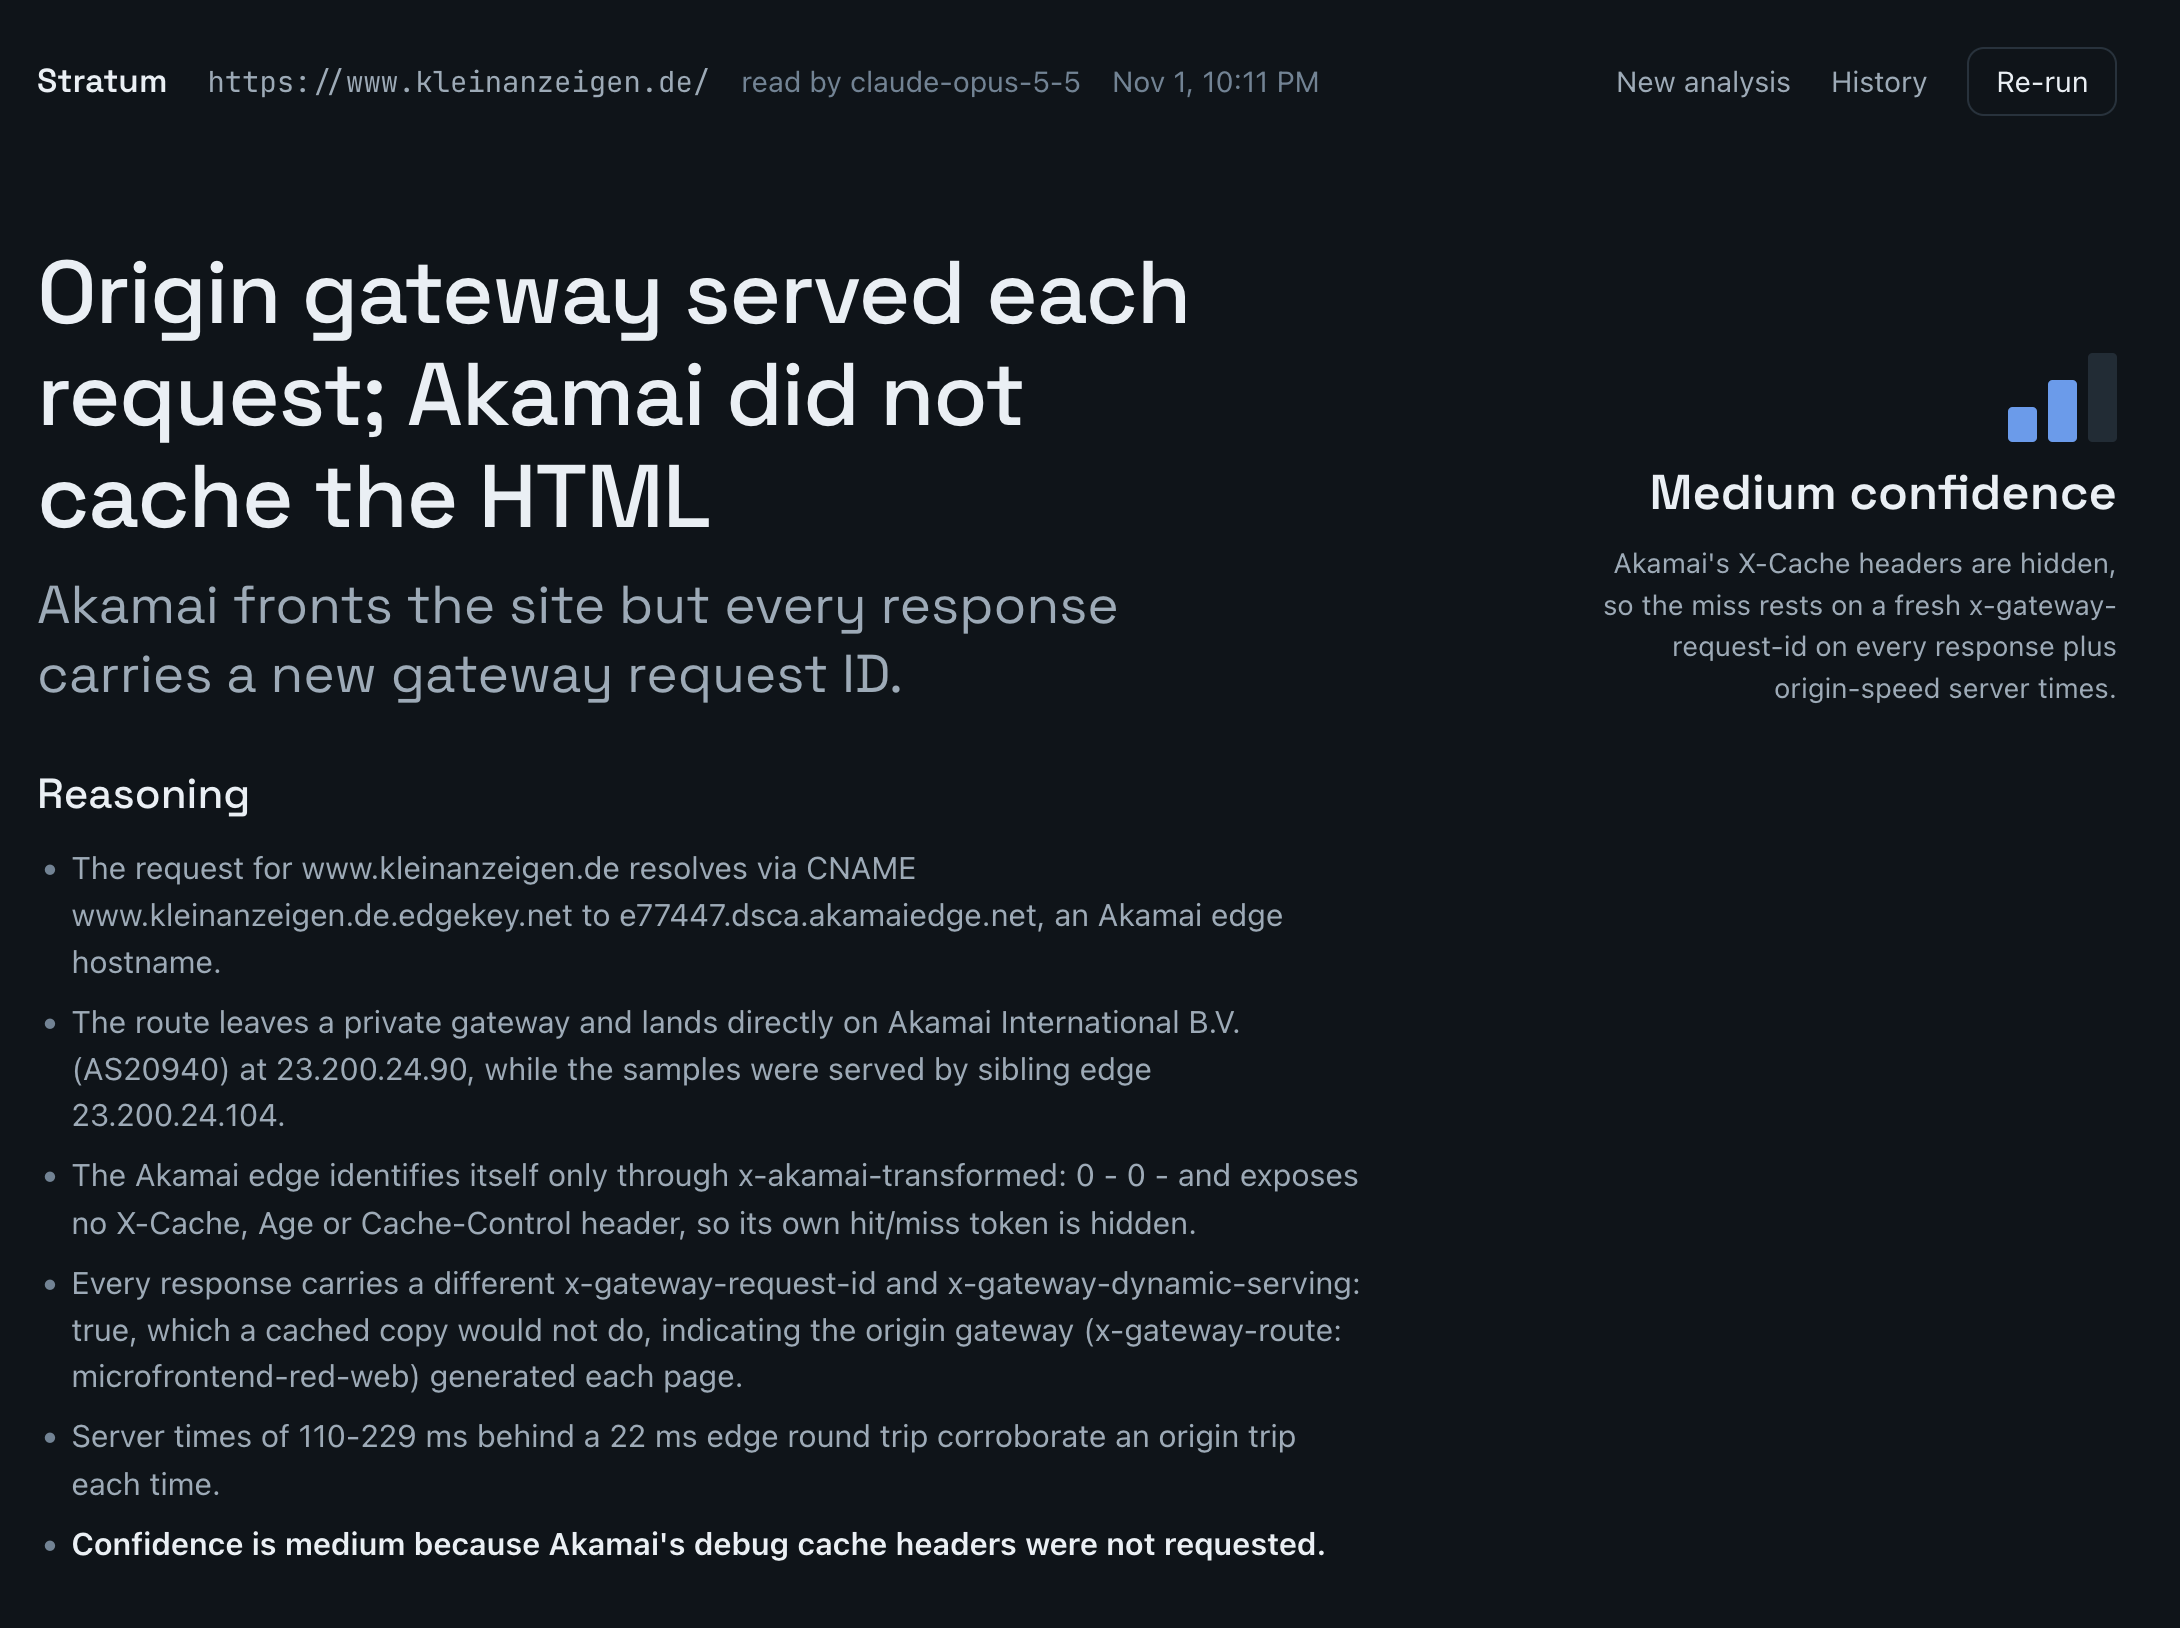
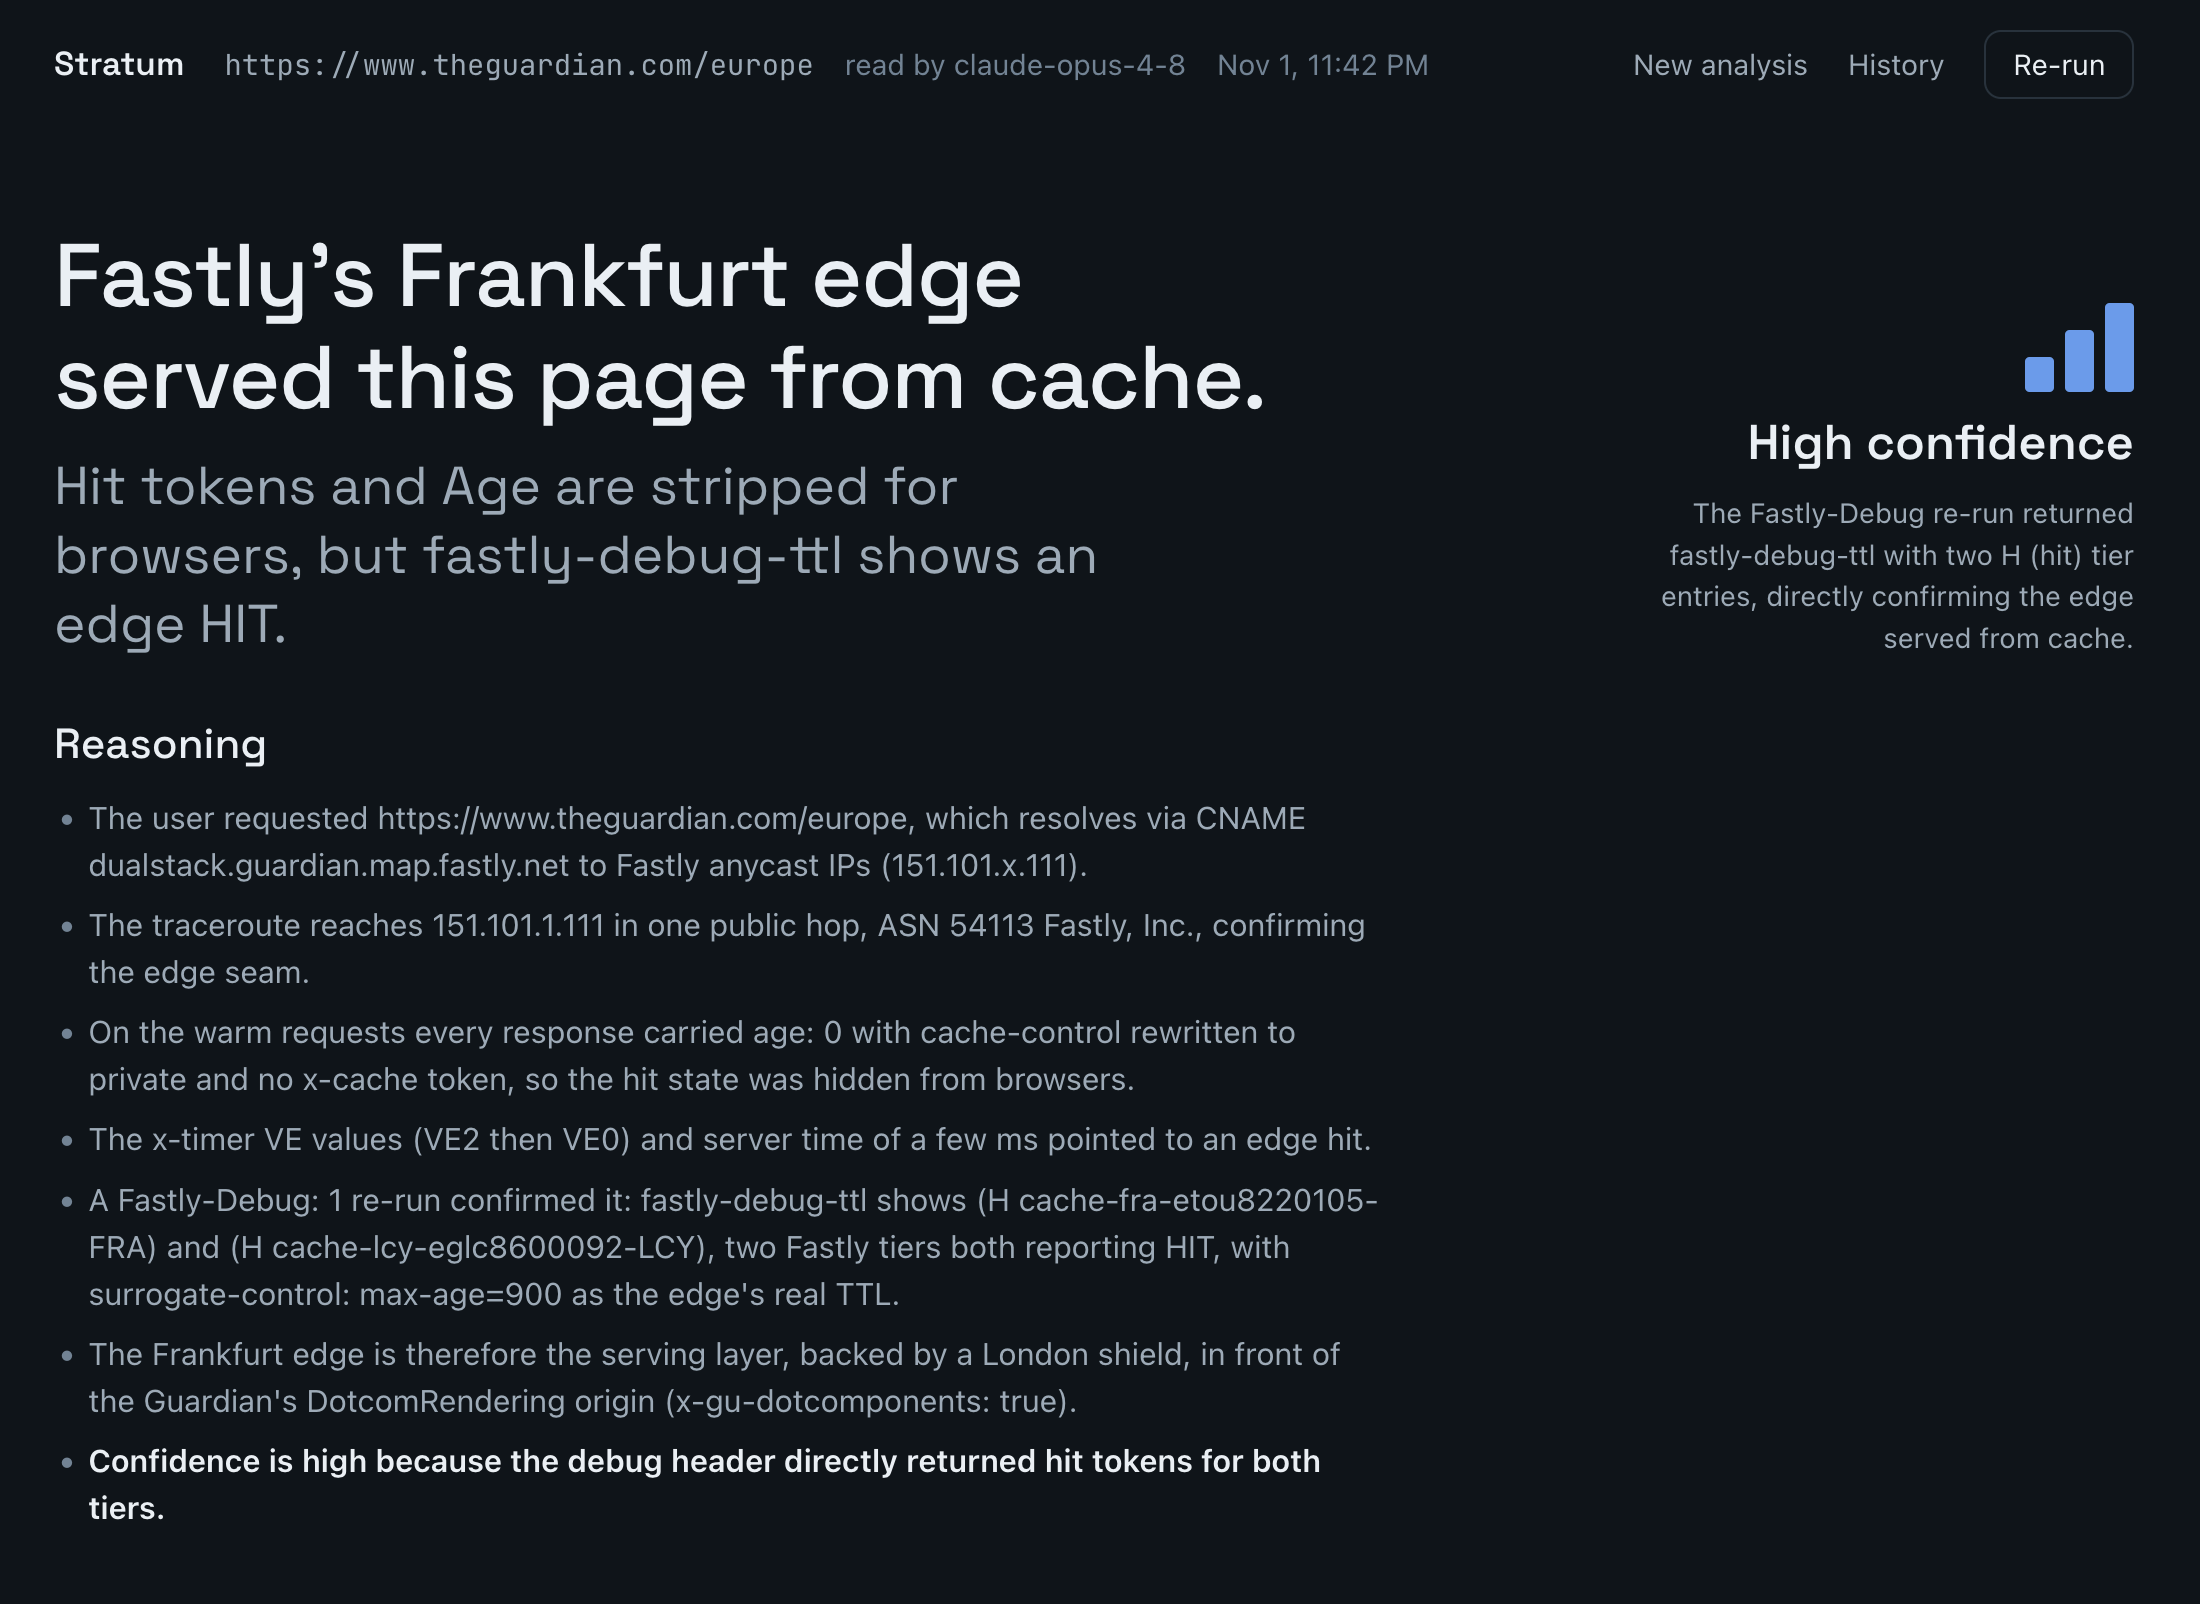
docs: README walkthrough with the theguardian.com investigate run

diff --git a/README.md b/README.md
@@ -31,25 +31,31 @@ How it works: the model gets one tool, `request_page`, which fetches the same UR
 
 ## The report
 
-A real analysis of `https://www.kleinanzeigen.de/`, top to bottom.
+A real analysis of `https://www.theguardian.com/europe` with investigate mode on, top to bottom. Fastly strips its hit tokens and resets Age for browsers, so the first batch of evidence could not settle the cache state; the model asked for one more request with `Fastly-Debug: 1` and got its answer.
 
-The verdict in plain words, how sure the model is, and its reasoning laid out the way the request travels: DNS, edge, cache layers, origin.
+The verdict in plain words, how sure the model is, and its reasoning laid out the way the request travels: DNS, edge, cache layers, origin, ending with the confidence sentence.
 
 ![The answer and the reasoning](docs/screenshots/report-01-answer-reasoning.png)
 
-The path from you to the origin drawn as stacked layers, with the headers that prove each one and the measured values side by side across every request.
+The path from you to the origin drawn as stacked layers, with the headers that prove each one, then who delivered the page and whether the timing agrees.
 
-![The cache layers, delivery, timing and measured values](docs/screenshots/report-02-layers-measured.png)
+![The cache layers and the claims](docs/screenshots/report-02-layers.png)
 
-Security and performance findings, sorted by severity, each pointing at the evidence that backs it.
+The measured values side by side across every request: the model's per-request reading, the headers that changed, time to first byte and time behind the edge, with the cache-bust probe as its own column.
 
-![Findings](docs/screenshots/report-03-findings.png)
+![Measured values across the requests](docs/screenshots/report-03-measured.png)
 
-When the model investigated, **What the model tried** lists each extra request it made, why, and what it observed, with the full call one click away, and **Recommendations** names what else could settle the open questions.
+**What the model tried**: each extra request it made, why, and what it observed, with the full call one click away. Here one request with `Fastly-Debug: 1` revealed a two-tier hit (Frankfurt edge over London shield).
+
+![What the model tried](docs/screenshots/report-04-tried.png)
+
+Security and performance findings, sorted by severity, each pointing at the evidence that backs it. **Recommendations** follows when the model's requests left questions open.
+
+![Findings](docs/screenshots/report-05-findings.png)
 
 Where the site actually lives: the vantage, the DNS chain, the server that answered, and the route that got there.
 
-![Where it's hosted](docs/screenshots/report-04-hosted.png)
+![Where it's hosted](docs/screenshots/report-06-hosted.png)
 
 ## Stack
 
